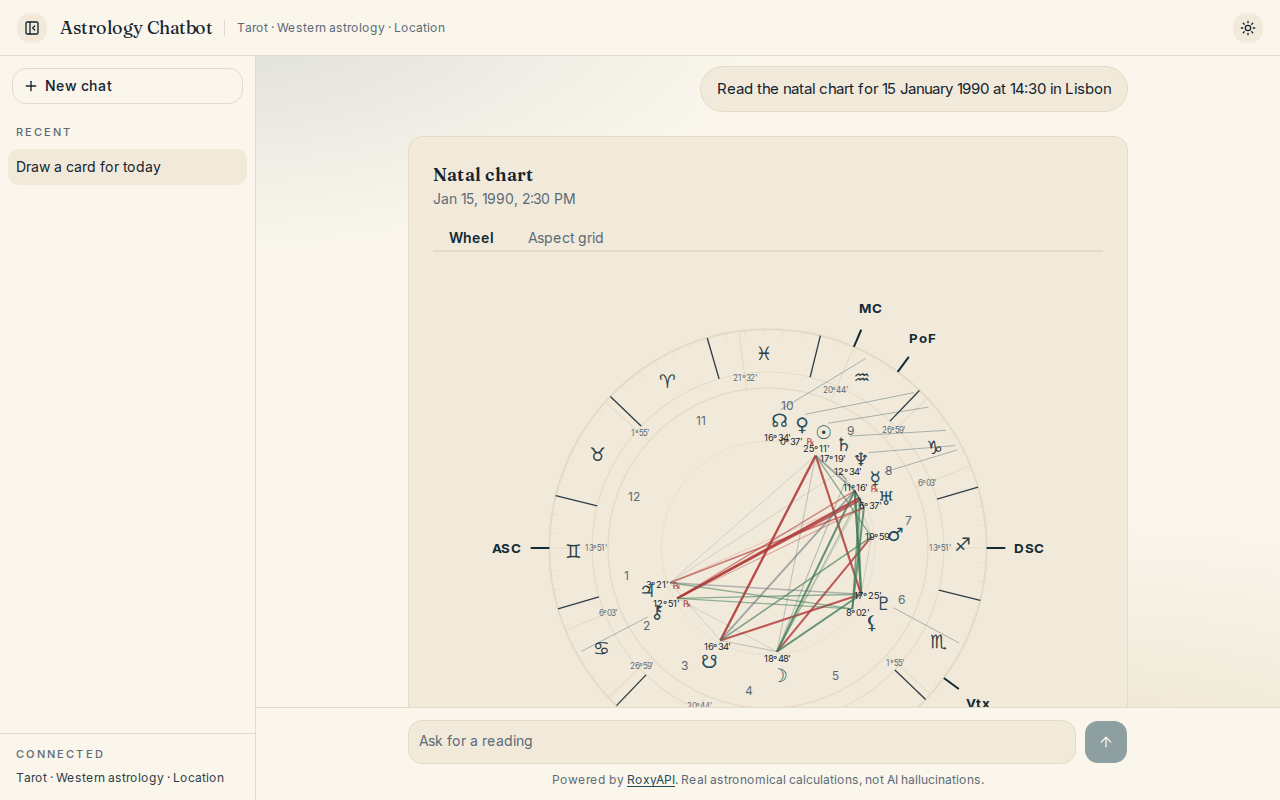
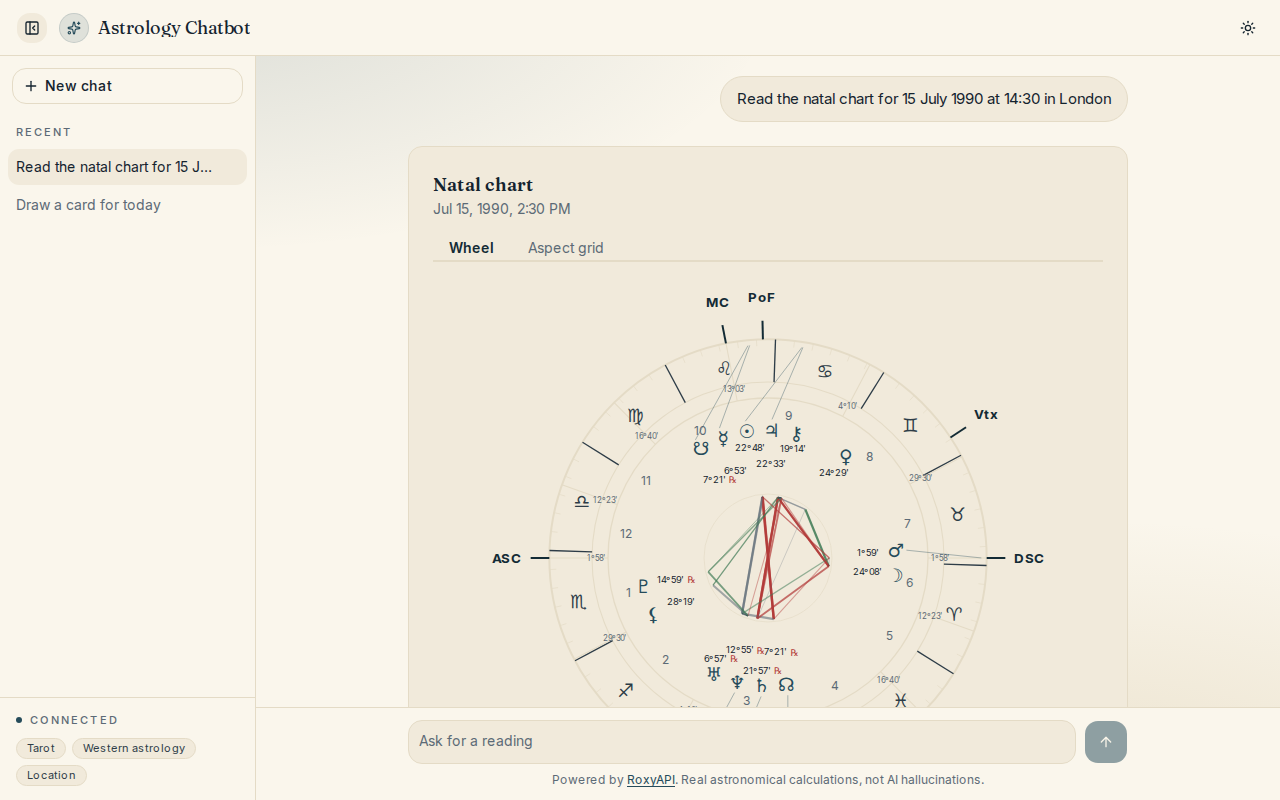
feat: current model for each provider, connected domains shown once as sidebar chips under a header with a brand mark, README screenshots retaken (#59)

diff --git a/src/components/chat/ChatHeader.tsx b/src/components/chat/ChatHeader.tsx
@@ -1,12 +1,11 @@
 "use client";
 
-import { Menu, PanelLeft, PanelLeftClose } from "lucide-react";
+import { Menu, PanelLeft, PanelLeftClose, Sparkles } from "lucide-react";
 import type { RefObject } from "react";
 import { ThemeToggle } from "@/components/theme-toggle";
 import { Button } from "@/components/ui/button";
 
 interface ChatHeaderProps {
-  domains: string[];
   drawerOpen: boolean;
   sidebarOpen: boolean;
   onToggleDrawer: () => void;
@@ -15,22 +14,20 @@ interface ChatHeaderProps {
 }
 
 /**
- * The wordmark, what the chatbot is connected to, and the two controls that change the view.
+ * The wordmark and the controls that change the view. What the chatbot is connected to lives in the
+ * sidebar, once.
  *
  * @remarks Two separate buttons rather than one that behaves differently by width: only one is ever
  * on screen, so each can say exactly what it does and report its own state honestly. One control
  * that means two things cannot.
  */
 export function ChatHeader({
-  domains,
   drawerOpen,
   sidebarOpen,
   onToggleDrawer,
   onToggleSidebar,
   drawerButtonRef,
 }: ChatHeaderProps) {
-  const strip = domains.join(" · ");
-
   return (
     <header className="bg-background z-20 h-[var(--header-h)] shrink-0 border-b">
       <div className="flex h-full items-center gap-2 px-2 sm:gap-3 sm:px-4">
@@ -59,20 +56,17 @@ export function ChatHeader({
           {sidebarOpen ? <PanelLeftClose className="size-4" /> : <PanelLeft className="size-4" />}
         </Button>
 
-        <h1 className="font-display shrink-0 text-base leading-none tracking-tight sm:text-lg">
-          Astrology Chatbot
-        </h1>
-
-        {/* What this deployment is wired to, on one line. The rule before it keeps the list from
-            reading as part of the name. */}
-        {strip ? (
-          <p
-            className="text-muted-foreground border-border hidden min-w-0 flex-1 truncate border-l pl-3 text-xs md:block"
-            title={domains.join(", ")}
+        <div className="flex min-w-0 items-center gap-2.5">
+          <span
+            aria-hidden="true"
+            className="bg-primary/12 text-primary ring-primary/25 grid size-7 shrink-0 place-items-center rounded-full ring-1"
           >
-            {strip}
-          </p>
-        ) : null}
+            <Sparkles className="size-3.5" />
+          </span>
+          <h1 className="font-display truncate text-base leading-none tracking-tight sm:text-lg">
+            Astrology Chatbot
+          </h1>
+        </div>
 
         <div className="ml-auto flex items-center">
           <ThemeToggle />

diff --git a/src/lib/ai.ts b/src/lib/ai.ts
@@ -23,22 +23,18 @@ import { openai } from "@ai-sdk/openai";
 const provider = process.env.LLM_PROVIDER || "gemini";
 
 /**
- * Returns the AI SDK model instance for the configured provider.
- *
- * | Provider    | Model                    | Notes                   |
- * |-------------|--------------------------|-------------------------|
- * | gemini      | gemini-2.5-flash         | Free tier available     |
- * | anthropic   | claude-haiku-4-5         | Best quality            |
- * | openai      | gpt-5-mini               | Most popular            |
+ * Returns the AI SDK model instance for the configured provider. This is the
+ * only place a model identifier appears: change the model here, never in a
+ * prompt, a component or a document.
  */
 export function getModel() {
   switch (provider) {
     case "anthropic":
-      return anthropic("claude-haiku-4-5-20251001");
+      return anthropic("claude-haiku-5-5");
     case "openai":
-      return openai("gpt-5-mini");
+      return openai("gpt-6-luna");
     case "gemini":
     default:
-      return google("gemini-2.5-flash");
+      return google("gemini-3.8-flash");
   }
 }

diff --git a/src/components/chat/ChatSidebar.tsx b/src/components/chat/ChatSidebar.tsx
@@ -110,9 +110,21 @@ export function ChatSidebar({
         )}
       </nav>
 
-      <div className="border-t px-4 py-3">
-        <p className="eyebrow text-muted-foreground pb-1.5">Connected</p>
-        <p className="text-foreground-soft text-xs leading-5">{domains.join(" · ")}</p>
+      <div className="border-t px-4 py-3.5">
+        <p className="eyebrow text-muted-foreground flex items-center gap-2 pb-2.5">
+          <span aria-hidden="true" className="bg-primary size-1.5 rounded-full" />
+          Connected
+        </p>
+        <ul className="flex flex-wrap gap-1.5">
+          {domains.map((domain) => (
+            <li
+              key={domain}
+              className="bg-card text-foreground-soft rounded-full border px-2.5 py-1 text-[0.6875rem] leading-none"
+            >
+              {domain}
+            </li>
+          ))}
+        </ul>
       </div>
     </aside>
   );

diff --git a/src/lib/domains.ts b/src/lib/domains.ts
@@ -1,7 +1,7 @@
 /**
  * @fileoverview Reading names for the product slugs this chatbot connects to.
  *
- * The header strip and the sidebar both list what is wired up, and the home page resolves that list
+ * The sidebar lists what is wired up, and the home page resolves that list
  * from the same environment variable the MCP registry reads, so the connected set on screen is the
  * connected set in the environment rather than a list somebody kept in step by hand. A slug added
  * to the registry without a name here fails a test.

diff --git a/tests/domains.test.ts b/tests/domains.test.ts
@@ -2,7 +2,7 @@ import { describe, expect, it } from 'vitest';
 import { DOMAIN_LABELS, OPENERS, domainLabels, openersFor } from '@/lib/domains';
 import { DEFAULT_PRODUCTS, resolveProducts } from '@/lib/mcp';
 
-// The header strip and the sidebar tell a reader what the chatbot is connected to. A product added
+// The sidebar tells a reader what the chatbot is connected to. A product added
 // to the registry with no name here would show its slug on screen, which is the kind of thing
 // nobody notices until a customer does.
 

diff --git a/src/components/chat/ChatShell.tsx b/src/components/chat/ChatShell.tsx
@@ -88,7 +88,6 @@ export function ChatShell({ slugs }: ChatShellProps) {
   return (
     <div className="relative z-10 flex h-svh flex-col overflow-hidden">
       <ChatHeader
-        domains={domains}
         drawerOpen={drawerOpen}
         sidebarOpen={sidebarOpen}
         onToggleDrawer={() => setDrawerOpen((open) => !open)}

diff --git a/README.md b/README.md
@@ -75,13 +75,13 @@ You need two keys:
 
 ## Choose Your LLM
 
-Swap providers with one env var. All three use the unified interface in the Vercel AI SDK, same code, different model:
+Swap providers with one env var. All three use the unified interface in the Vercel AI SDK, same code, different model. The model each provider runs is set in one place, [`src/lib/ai.ts`](https://github.com/RoxyAPI/astrology-ai-chatbot/blob/main/src/lib/ai.ts):
 
-| Provider | Env Var | Model | Cost / 1M tokens |
-|----------|---------|-------|-------------------|
-| **Google Gemini** (default) | `GOOGLE_GENERATIVE_AI_API_KEY` | Gemini 2.5 Flash | $0.30 / $2.50, has free tier |
-| Anthropic | `ANTHROPIC_API_KEY` | Claude Haiku 4.5 | $1.00 / $5.00 |
-| OpenAI | `OPENAI_API_KEY` | GPT-5 mini | $0.13 / $1.00 |
+| Provider | Env Var |
+|----------|---------|
+| **Google Gemini** (default, has a free tier) | `GOOGLE_GENERATIVE_AI_API_KEY` |
+| Anthropic | `ANTHROPIC_API_KEY` |
+| OpenAI | `OPENAI_API_KEY` |
 
 ```env
 LLM_PROVIDER=gemini
@@ -155,7 +155,7 @@ Available product slugs: `astrology`, `vedic-astrology`, `forecast`, `human-desi
 | Tool Count | LLM Behavior | Recommendation |
 |-----------|--------------|----------------|
 | **10-30 tools** | Fast, accurate tool selection | Best for focused use cases (e.g. tarot + astrology only) |
-| **30-80 tools** | Good with capable models (Gemini 2.5 Flash, GPT-5 mini, Claude Haiku 4.5) | Good balance for most deployments |
+| **30-80 tools** | Good with the default models of all three providers | Good balance for most deployments |
 | **80-150 tools** | Works but slower; model may occasionally pick the wrong tool | Increase `MAX_TOOL_STEPS` if needed |
 | **255+ tools** | Where the full default catalogue sits, all 18 products enabled. Capable models handle it; smaller ones start picking the wrong tool as descriptions compete for context | Trim `ROXYAPI_PRODUCTS` to the domains you actually need |
 
@@ -173,7 +173,7 @@ src/
 ├── components/
 │   ├── chat/
 │   │   ├── ChatShell.tsx     # Header, sidebar, transcript, conversation switching
-│   │   ├── ChatHeader.tsx    # Wordmark, connected domains, theme and view controls
+│   │   ├── ChatHeader.tsx    # Wordmark, theme and view controls
 │   │   ├── ChatSidebar.tsx   # New chat, recent conversations, connected list
 │   │   ├── ChatPanel.tsx     # One conversation: transcript, composer, attribution
 │   │   ├── MessageList.tsx   # Transcript, opening screen, four openers
@@ -280,7 +280,7 @@ npm run build && npm start
 
 ### How many tools can the LLM handle?
 
-The default setup exposes ~255 tools from 18 RoxyAPI products (17 spiritual domains plus location for geocoding). Modern models like Gemini 2.5 Flash, GPT-5 mini, and Claude Haiku 4.5 handle this well. If you see the model picking the wrong tool or making excessive tool calls, reduce the product count via `ROXYAPI_PRODUCTS`, fewer tools means faster, more accurate selection.
+The default setup exposes ~255 tools from 18 RoxyAPI products (17 spiritual domains plus location for geocoding). The default model of each provider handles this well. If you see the model picking the wrong tool or making excessive tool calls, reduce the product count via `ROXYAPI_PRODUCTS`, fewer tools means faster, more accurate selection.
 
 ### The chatbot is unstable or sometimes does not respond
 

diff --git a/AGENTS.md b/AGENTS.md
@@ -49,7 +49,7 @@ Every chart tool (Western, Vedic, Human Design, Forecast, Chinese astrology BaZi
 
 **The screen**
 - `src/components/chat/ChatShell.tsx`, the layout: header, sidebar, transcript, and the conversation being read.
-- `src/components/chat/ChatHeader.tsx`, wordmark, the strip of connected domains, and the view controls.
+- `src/components/chat/ChatHeader.tsx`, wordmark and the view controls.
 - `src/components/chat/ChatSidebar.tsx`, new chat, recent conversations, and the connected list. A panel on a wide screen and a drawer on a narrow one.
 - `src/components/chat/ChatPanel.tsx`, one conversation: the transcript, the composer, and the attribution.
 - `src/components/chat/MessageList.tsx`, the transcript and the opening screen.
